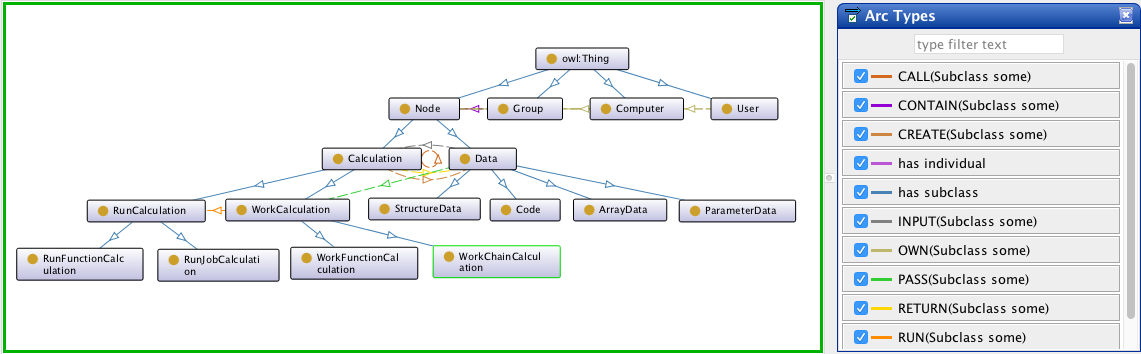
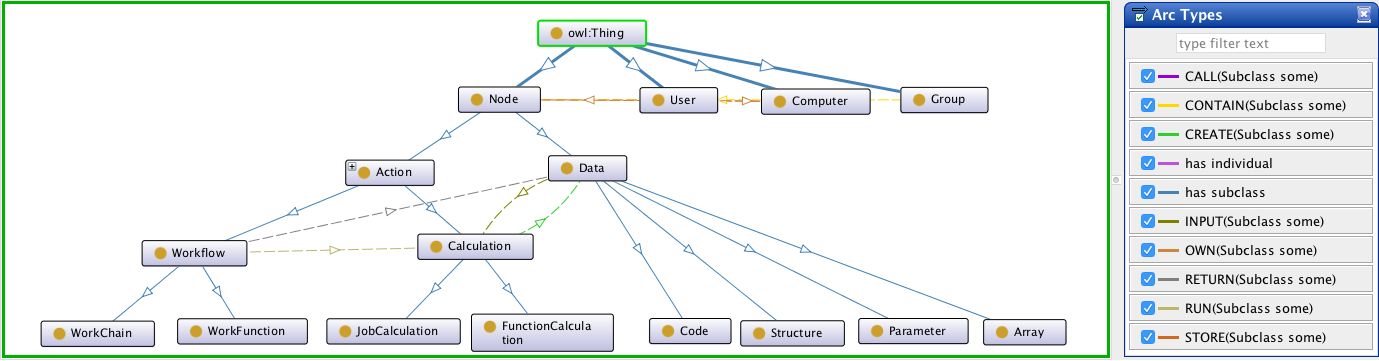
update ontology to latest stage of discussions

diff --git a/README.md b/README.md
@@ -1,15 +1,15 @@
 # AiiDA Ontology
 
-This repository contains a basic ontological description of AiiDA graphs
+This repository contains the basic ontological description of AiiDA graphs for AiiDA v1.0 
 in the [Web Ontology Language](https://www.w3.org/OWL/) (OWL).
 
 ![Basic structure](materials/snap.png)
 
-**Note:** This is a work in progress, contributions are welcome!
+**Note:** This document is a working draft and subject to change!
 
 ## Usage
 
 In order to edit or visualize the ontology, open the [aiida-ontology.rdf](aiida-ontology.rdf) in an ontology editor,
 such as [Protégé](https://protege.stanford.edu/) or [WebProtégé](http://webprotege.stanford.edu/).
  
-You may also consider [this short tutorial](https://medium.com/@vindulajayawardana/ontology-generation-and-visualization-with-prot%C3%A9g%C3%A9-6df0af9955e0) on generating and visualizing ontologies with Protégé.
+If you're new to Protégé check out [this short tutorial](https://medium.com/@vindulajayawardana/ontology-generation-and-visualization-with-prot%C3%A9g%C3%A9-6df0af9955e0).
